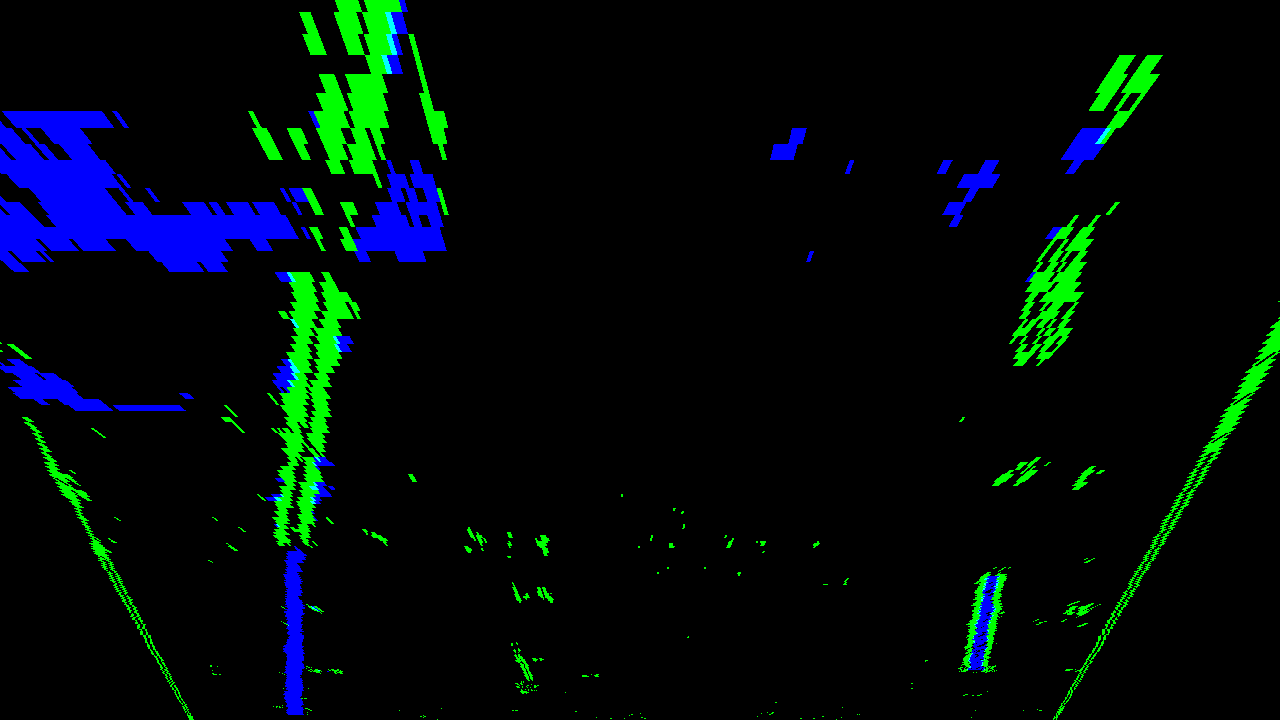
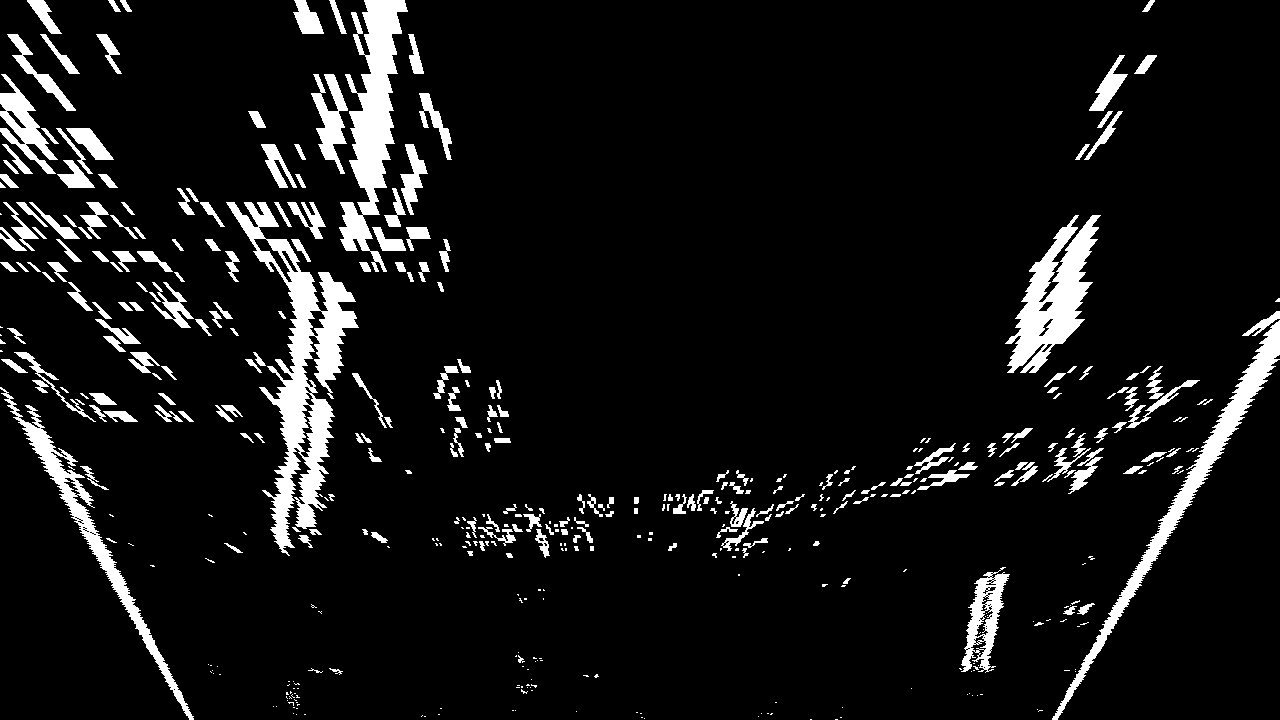
fixed binary image issue

diff --git a/lane_finding.py b/lane_finding.py
@@ -149,25 +149,24 @@ def hls_threshold(img, channel='s', thresh=(0, 255)):
 
 def combined_threshold(img, kernel_size=3):
     # Apply each of the thresholding functions
-    gradx = abs_sobel_thresh(img, orient='x', sobel_kernel=kernel_size)
-    grady = abs_sobel_thresh(img, orient='y', sobel_kernel=kernel_size)
-    mag_binary = mag_thresh(img, sobel_kernel=kernel_size)
-    dir_binary = dir_threshold(img, sobel_kernel=kernel_size)
-    hls_binary = hls_threshold(img)
+    gradx = abs_sobel_thresh(img, orient='x', sobel_kernel=kernel_size, thresh=(20, 255), convert_gray=True)
+    grady = abs_sobel_thresh(img, orient='y', sobel_kernel=kernel_size, thresh=(20, 255), convert_gray=True)
+    s_channel = hls_threshold(img, thresh=(10, 230))
+    mag_binary = mag_thresh(s_channel, sobel_kernel=kernel_size, thresh=(30, 180))
+    dir_binary = dir_threshold(s_channel, sobel_kernel=9, thresh=(0.7, 1.4))
 
     combined = np.zeros_like(dir_binary)
     combined[((gradx == 1) & (grady == 1)) | ((mag_binary == 1) & (dir_binary == 1))] = 1
 
-    color_binary = np.dstack((np.zeros_like(combined), combined, hls_binary))
-    return color_binary
+    return combined
 
 
 def hls_with_sobelx(img, s_thresh=(170, 255), sx_thresh=(20, 100)):
     img = np.copy(img)
     # Convert to HSV color space and separate the V channel
-    hsv = cv2.cvtColor(img, cv2.COLOR_RGB2HLS).astype(np.float)
-    l_channel = hsv[:, :, 1]
-    s_channel = hsv[:, :, 2]
+    hls = cv2.cvtColor(img, cv2.COLOR_RGB2HLS).astype(np.float)
+    l_channel = hls[:, :, 1]
+    s_channel = hls[:, :, 2]
     # Sobel x
     sxbinary = abs_sobel_thresh(l_channel, orient='x', thresh=sx_thresh)
 
@@ -223,7 +222,7 @@ def region_of_interest(img):
 def lane_detection(binary_warped, nwindows=9):
     # Assuming you have created a warped binary image called "binary_warped"
     # Take a histogram of the bottom half of the image
-    histogram = np.sum(binary_warped[binary_warped.shape[0] / 2:, :], axis=0)
+    histogram = np.sum(binary_warped[binary_warped.shape[0] // 2:, :], axis=0)
     # Create an output image to draw on and  visualize the result
     out_img = np.dstack((binary_warped, binary_warped, binary_warped)) * 255
     # Find the peak of the left and right halves of the histogram
@@ -318,7 +317,6 @@ def calculate_curvature(ploty, leftx, rightx):
 
 
 # TODO test on video stream
-
 def video_pipeline(img, save=False):
     # Check if calibration picke file exists and if not calibrate the camera
     if not Path("calibration.p").is_file():
@@ -340,21 +338,25 @@ def video_pipeline(img, save=False):
         mpimg.imsave("output_images/pipeline_test_masked.jpg", masked_img)
 
     # convert image to a colored binary image
-    # TODO combined_threshold is not working
-    color_binary_img = hls_with_sobelx(masked_img)
+    color_binary_hls_img = hls_with_sobelx(masked_img)
     if save:
-        mpimg.imsave("output_images/pipeline_test_color_binary.jpg", color_binary_img)
+        mpimg.imsave("output_images/pipeline_test_color_binary_hls.jpg", color_binary_hls_img)
+
+    # convert image to a colored binary image
+    color_binary_combined_img = combined_threshold(masked_img, kernel_size=5)
+    if save:
+        mpimg.imsave("output_images/pipeline_test_color_binary_combined.jpg", color_binary_combined_img, cmap='gray')
 
     # warp image to birds-eye view
-    warped_img, M, Minv = warper(color_binary_img)
+    warped_img, M, Minv = warper(color_binary_combined_img)
     if save:
-        mpimg.imsave("output_images/pipeline_test_warped.jpg", warped_img)
+        mpimg.imsave("output_images/pipeline_test_warped.jpg", warped_img, cmap='gray')
 
     # detect the lane lines
     left_fit, right_fit = lane_detection(warped_img, nwindows=9)
     ploty, leftx, rightx = generate_values(warped_img, left_fit, right_fit)
     if save:
-        plt.imshow(warped_img)
+        plt.imshow(warped_img, cmap='gray')
         plt.plot(leftx, ploty, color='yellow')
         plt.plot(rightx, ploty, color='yellow')
         plt.savefig("output_images/pipeline_test_lane_detection.png")
@@ -373,7 +375,6 @@ ksize = 3
 
 # load test image
 test_image = mpimg.imread('test_images/test5.jpg')
-video_pipeline(test_image, True)
-
 left_lane = Line()
 right_lane = Line()
+video_pipeline(test_image, True)
